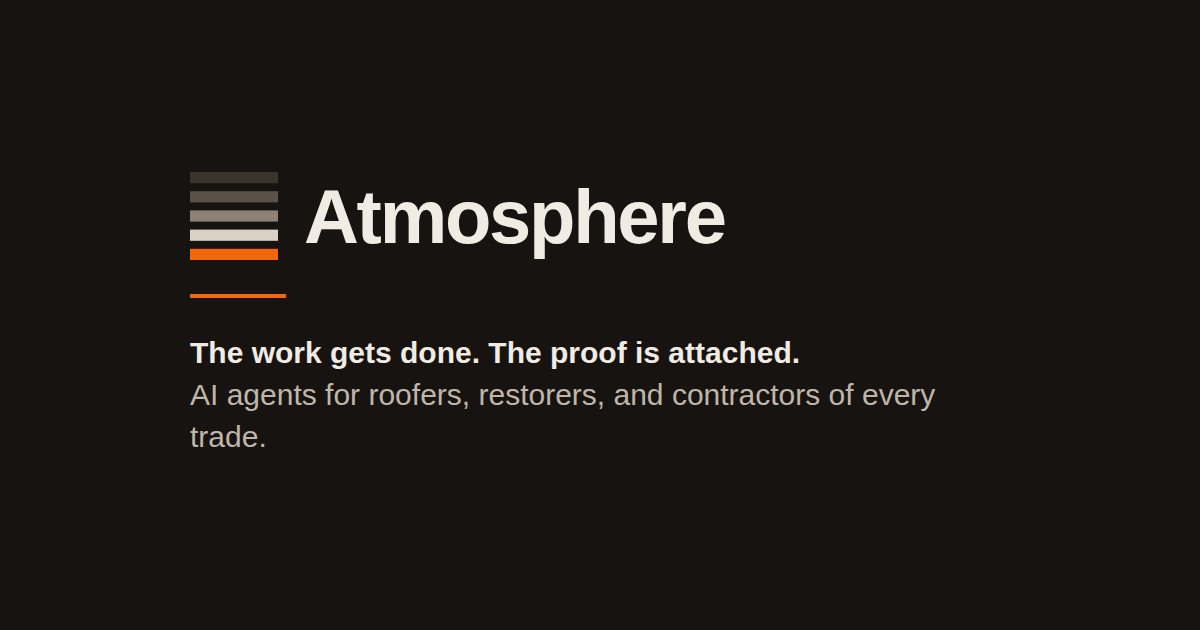
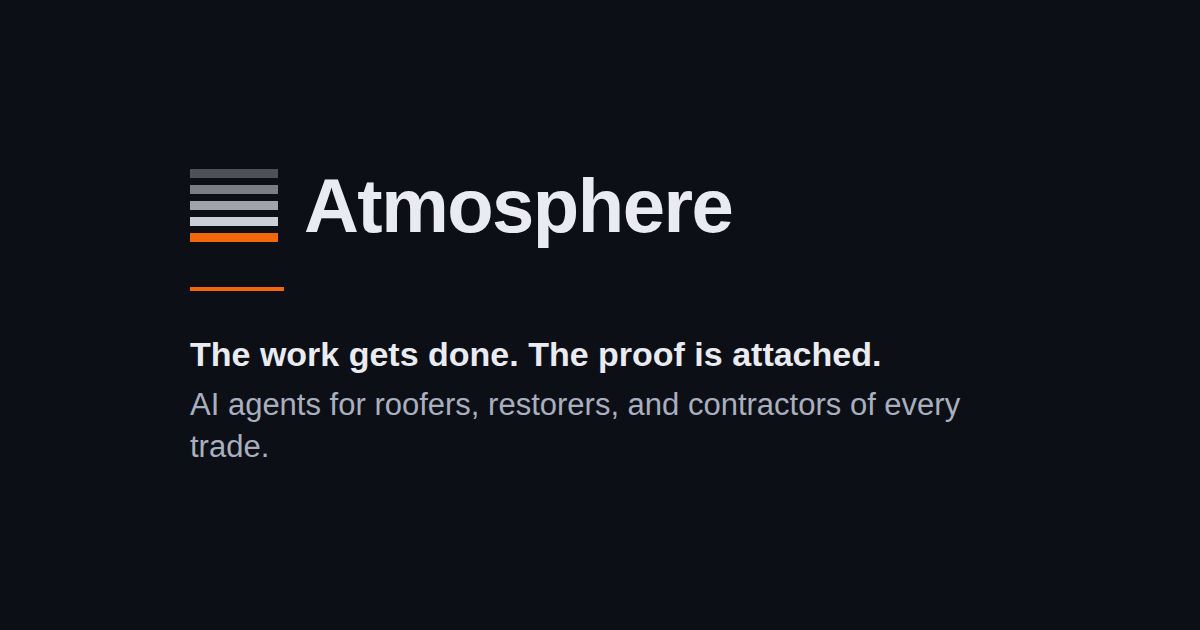
Deepen dark mode to navy-black and pin the org create/join contract
The dark theme's surfaces shift from warm brown (#171310/#201B17) to a
deep navy-black (#0C0F16/#131722), with lines, muted text, and soft
status tints recooled to match; the orange accent is untouched. The
og.png share card is regenerated on the new background.

New backend tests lock the create-organization and join-with-a-code
validation contract: join codes are trimmed and uppercased to the 6-12
alphanumeric shape the dashboard displays, and both flows require the
onboarding answers the database functions expect.

Claude-Session: https://claude.ai/code/session_01CyXkEZWEmpXR5CiHyyv5Ta

Changed region(s): [[0.1542, 0.5429, 0.8017, 0.7238], [0.1542, 0.2413, 0.6167, 0.4222], [0.1542, 0.4524, 0.2467, 0.4825]]

diff --git a/backend/test/orgOnboarding.test.ts b/backend/test/orgOnboarding.test.ts
@@ -1,0 +1,95 @@
+import test from 'node:test';
+import assert from 'node:assert/strict';
+import { createOrgSchema, joinOrgSchema } from '../src/lib/validation.js';
+
+// The create-organization and join-with-a-code flows share their contract with
+// the frontend onboarding page (OnboardingPage.tsx) and the create_org /
+// join_org database functions. These tests pin that contract down: if the
+// accepted join-code shape or the required onboarding answers change, one of
+// these fails before a customer does.
+
+const answers = {
+  role: 'project_manager',
+  workType: 'mitigation',
+  usageIntents: ['project_management', 'crm'],
+} as const;
+
+test('create: accepts a full payload and trims the organization name', () => {
+  const parsed = createOrgSchema.parse({
+    name: '  Acme Restoration  ',
+    contractorType: 'restoration',
+    ...answers,
+  });
+  assert.equal(parsed.name, 'Acme Restoration');
+  assert.equal(parsed.contractorType, 'restoration');
+  assert.deepEqual(parsed.usageIntents, ['project_management', 'crm']);
+});
+
+test('create: rejects a one-character organization name', () => {
+  assert.throws(() =>
+    createOrgSchema.parse({ name: 'A', contractorType: 'roofing', ...answers }),
+  );
+});
+
+test('create: rejects an unknown contractor type', () => {
+  assert.throws(() =>
+    createOrgSchema.parse({ name: 'Acme', contractorType: 'landscaping', ...answers }),
+  );
+});
+
+test('create: requires at least one usage intent', () => {
+  assert.throws(() =>
+    createOrgSchema.parse({
+      name: 'Acme',
+      contractorType: 'restoration',
+      role: 'sales',
+      workType: 'construction',
+      usageIntents: [],
+    }),
+  );
+});
+
+test('join: accepts a code exactly as the dashboard displays it', () => {
+  const parsed = joinOrgSchema.parse({ joinCode: '8F3A9C2B', ...answers });
+  assert.equal(parsed.joinCode, '8F3A9C2B');
+});
+
+test('join: uppercases and trims a code typed by hand', () => {
+  const parsed = joinOrgSchema.parse({ joinCode: '  8f3a9c2b ', ...answers });
+  assert.equal(parsed.joinCode, '8F3A9C2B');
+});
+
+test('join: rejects codes outside the 6–12 alphanumeric shape', () => {
+  for (const bad of ['ABC12', 'ABCDEF1234567', '8F3A-9C2B', '8F3A 9C2B', '']) {
+    assert.throws(() => joinOrgSchema.parse({ joinCode: bad, ...answers }), bad || '(empty)');
+  }
+});
+
+test('join: rejects a missing code with a clear message', () => {
+  try {
+    joinOrgSchema.parse({ ...answers });
+    assert.fail('expected a validation error');
+  } catch (err) {
+    assert.match(JSON.stringify(err), /Join code is required/);
+  }
+});
+
+test('both: reject an account type the app does not offer', () => {
+  assert.throws(() =>
+    joinOrgSchema.parse({ joinCode: '8F3A9C2B', ...answers, role: 'ceo' }),
+  );
+  assert.throws(() =>
+    createOrgSchema.parse({ name: 'Acme', contractorType: 'other', ...answers, role: 'ceo' }),
+  );
+});
+
+test('both: reject duplicate usage intents', () => {
+  assert.throws(() =>
+    joinOrgSchema.parse({
+      joinCode: '8F3A9C2B',
+      role: 'sales',
+      workType: 'mitigation',
+      usageIntents: ['crm', 'crm'],
+    }),
+  );
+});

diff --git a/website/assets/site.css b/website/assets/site.css
@@ -24,41 +24,41 @@
 }
 @media (prefers-color-scheme: dark) {
   :root {
-    --bg: #171310;
-    --card: #201B17;
-    --ink: #F0EBE3;
-    --ink-soft: #BFB6AA;
-    --ink-faint: #948B7F;
-    --line: #322B24;
-    --line-strong: #443A30;
+    --bg: #0C0F16;
+    --card: #131722;
+    --ink: #E9EBF1;
+    --ink-soft: #A9AFBF;
+    --ink-faint: #79808F;
+    --line: #242B3A;
+    --line-strong: #374052;
     --accent: #E0662B;
     --accent-hover: #E97F49;
     --accent-ink: #1C1108;
     --success: #7FBF8D;
-    --success-soft: #1E2B20;
+    --success-soft: #16261F;
     --danger: #E08573;
-    --danger-soft: #33201B;
-    --shadow-card: 0 1px 2px rgba(0,0,0,.25), 0 1px 3px rgba(0,0,0,.2);
-    --shadow-lift: 0 4px 12px rgba(0,0,0,.35), 0 2px 4px rgba(0,0,0,.25);
+    --danger-soft: #2E1C1E;
+    --shadow-card: 0 1px 2px rgba(0,0,0,.35), 0 1px 3px rgba(0,0,0,.28);
+    --shadow-lift: 0 4px 12px rgba(0,0,0,.5), 0 2px 4px rgba(0,0,0,.35);
   }
 }
 :root[data-theme="dark"] {
-  --bg: #171310;
-  --card: #201B17;
-  --ink: #F0EBE3;
-  --ink-soft: #BFB6AA;
-  --ink-faint: #948B7F;
-  --line: #322B24;
-  --line-strong: #443A30;
+  --bg: #0C0F16;
+  --card: #131722;
+  --ink: #E9EBF1;
+  --ink-soft: #A9AFBF;
+  --ink-faint: #79808F;
+  --line: #242B3A;
+  --line-strong: #374052;
   --accent: #E0662B;
   --accent-hover: #E97F49;
   --accent-ink: #1C1108;
   --success: #7FBF8D;
-  --success-soft: #1E2B20;
+  --success-soft: #16261F;
   --danger: #E08573;
-  --danger-soft: #33201B;
-  --shadow-card: 0 1px 2px rgba(0,0,0,.25), 0 1px 3px rgba(0,0,0,.2);
-  --shadow-lift: 0 4px 12px rgba(0,0,0,.35), 0 2px 4px rgba(0,0,0,.25);
+  --danger-soft: #2E1C1E;
+  --shadow-card: 0 1px 2px rgba(0,0,0,.35), 0 1px 3px rgba(0,0,0,.28);
+  --shadow-lift: 0 4px 12px rgba(0,0,0,.5), 0 2px 4px rgba(0,0,0,.35);
 }
 :root[data-theme="light"] {
   --bg: #FBFAF7;
